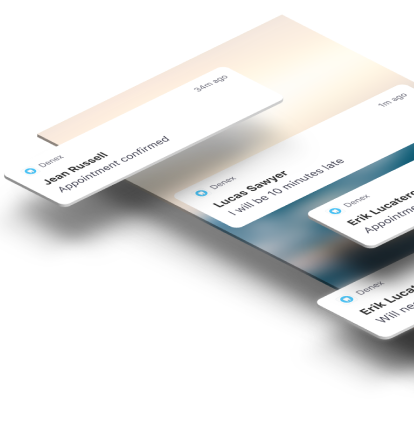
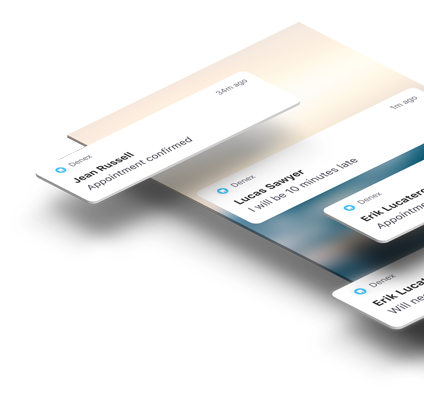
updating (section notify mobile image, the other one was too large)

diff --git a/index.html b/index.html
@@ -104,7 +104,7 @@
 			</section>
 
 			<section id ="notify" class="section-info">
-				<img class="mobile-visible" src="img/img-notify.png" alt="Notify">
+				<img class="mobile-visible" src="img/img-notify-mobile.png" alt="Notify">
 				<div class="left-half fw-content">
 					<div class="content">
 					  <h3>Optimize scheduling and maximize patient volume</h3>
